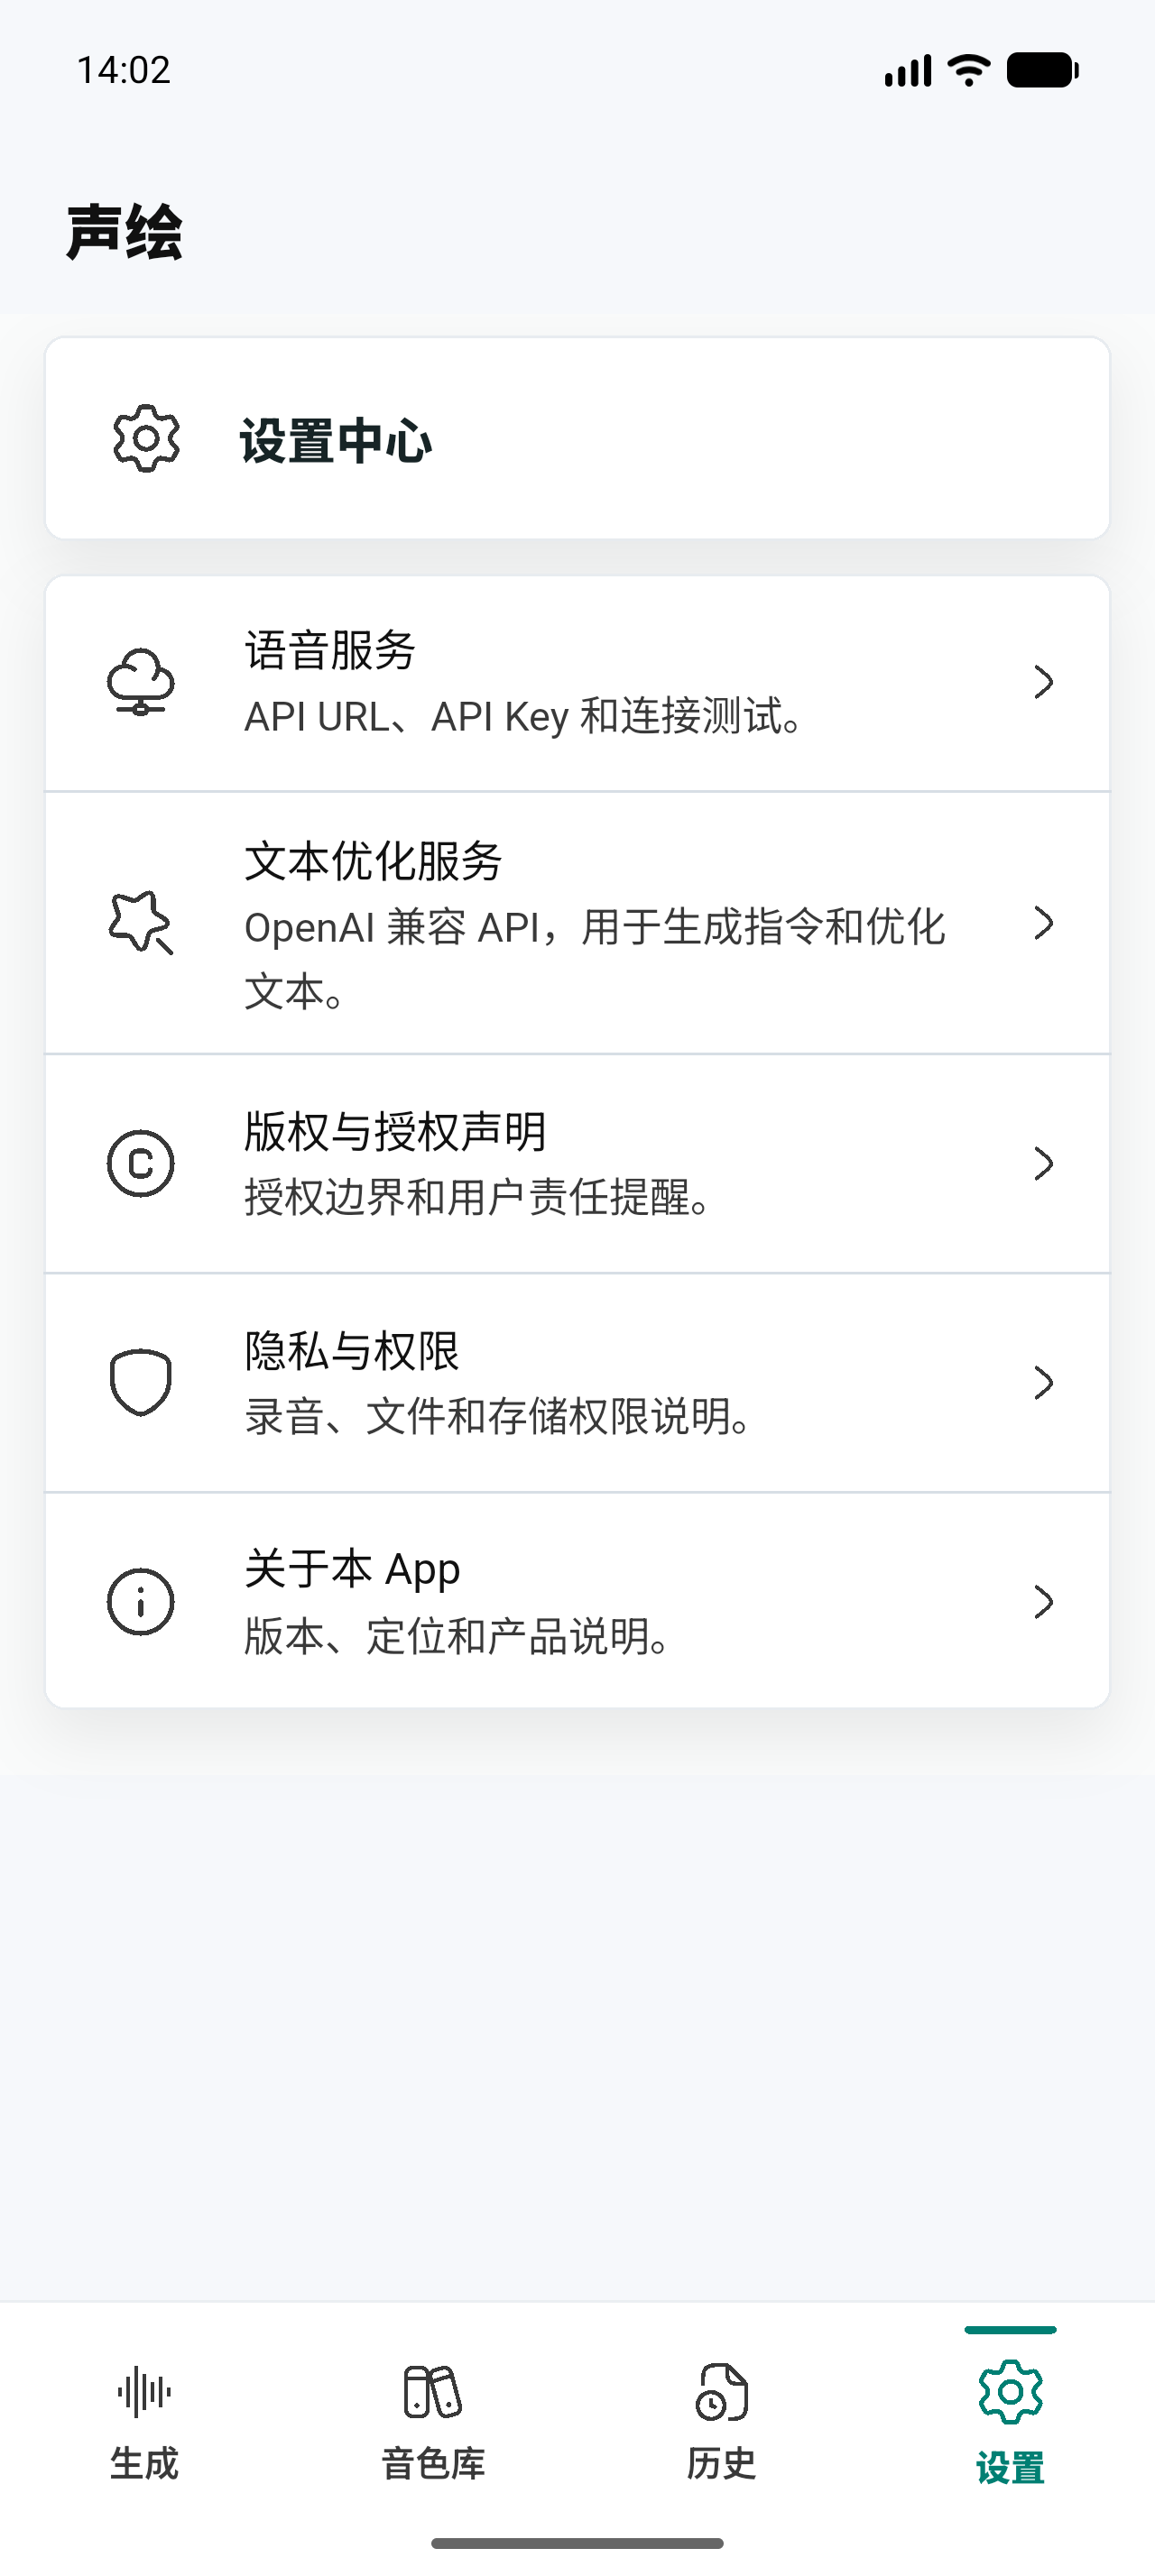
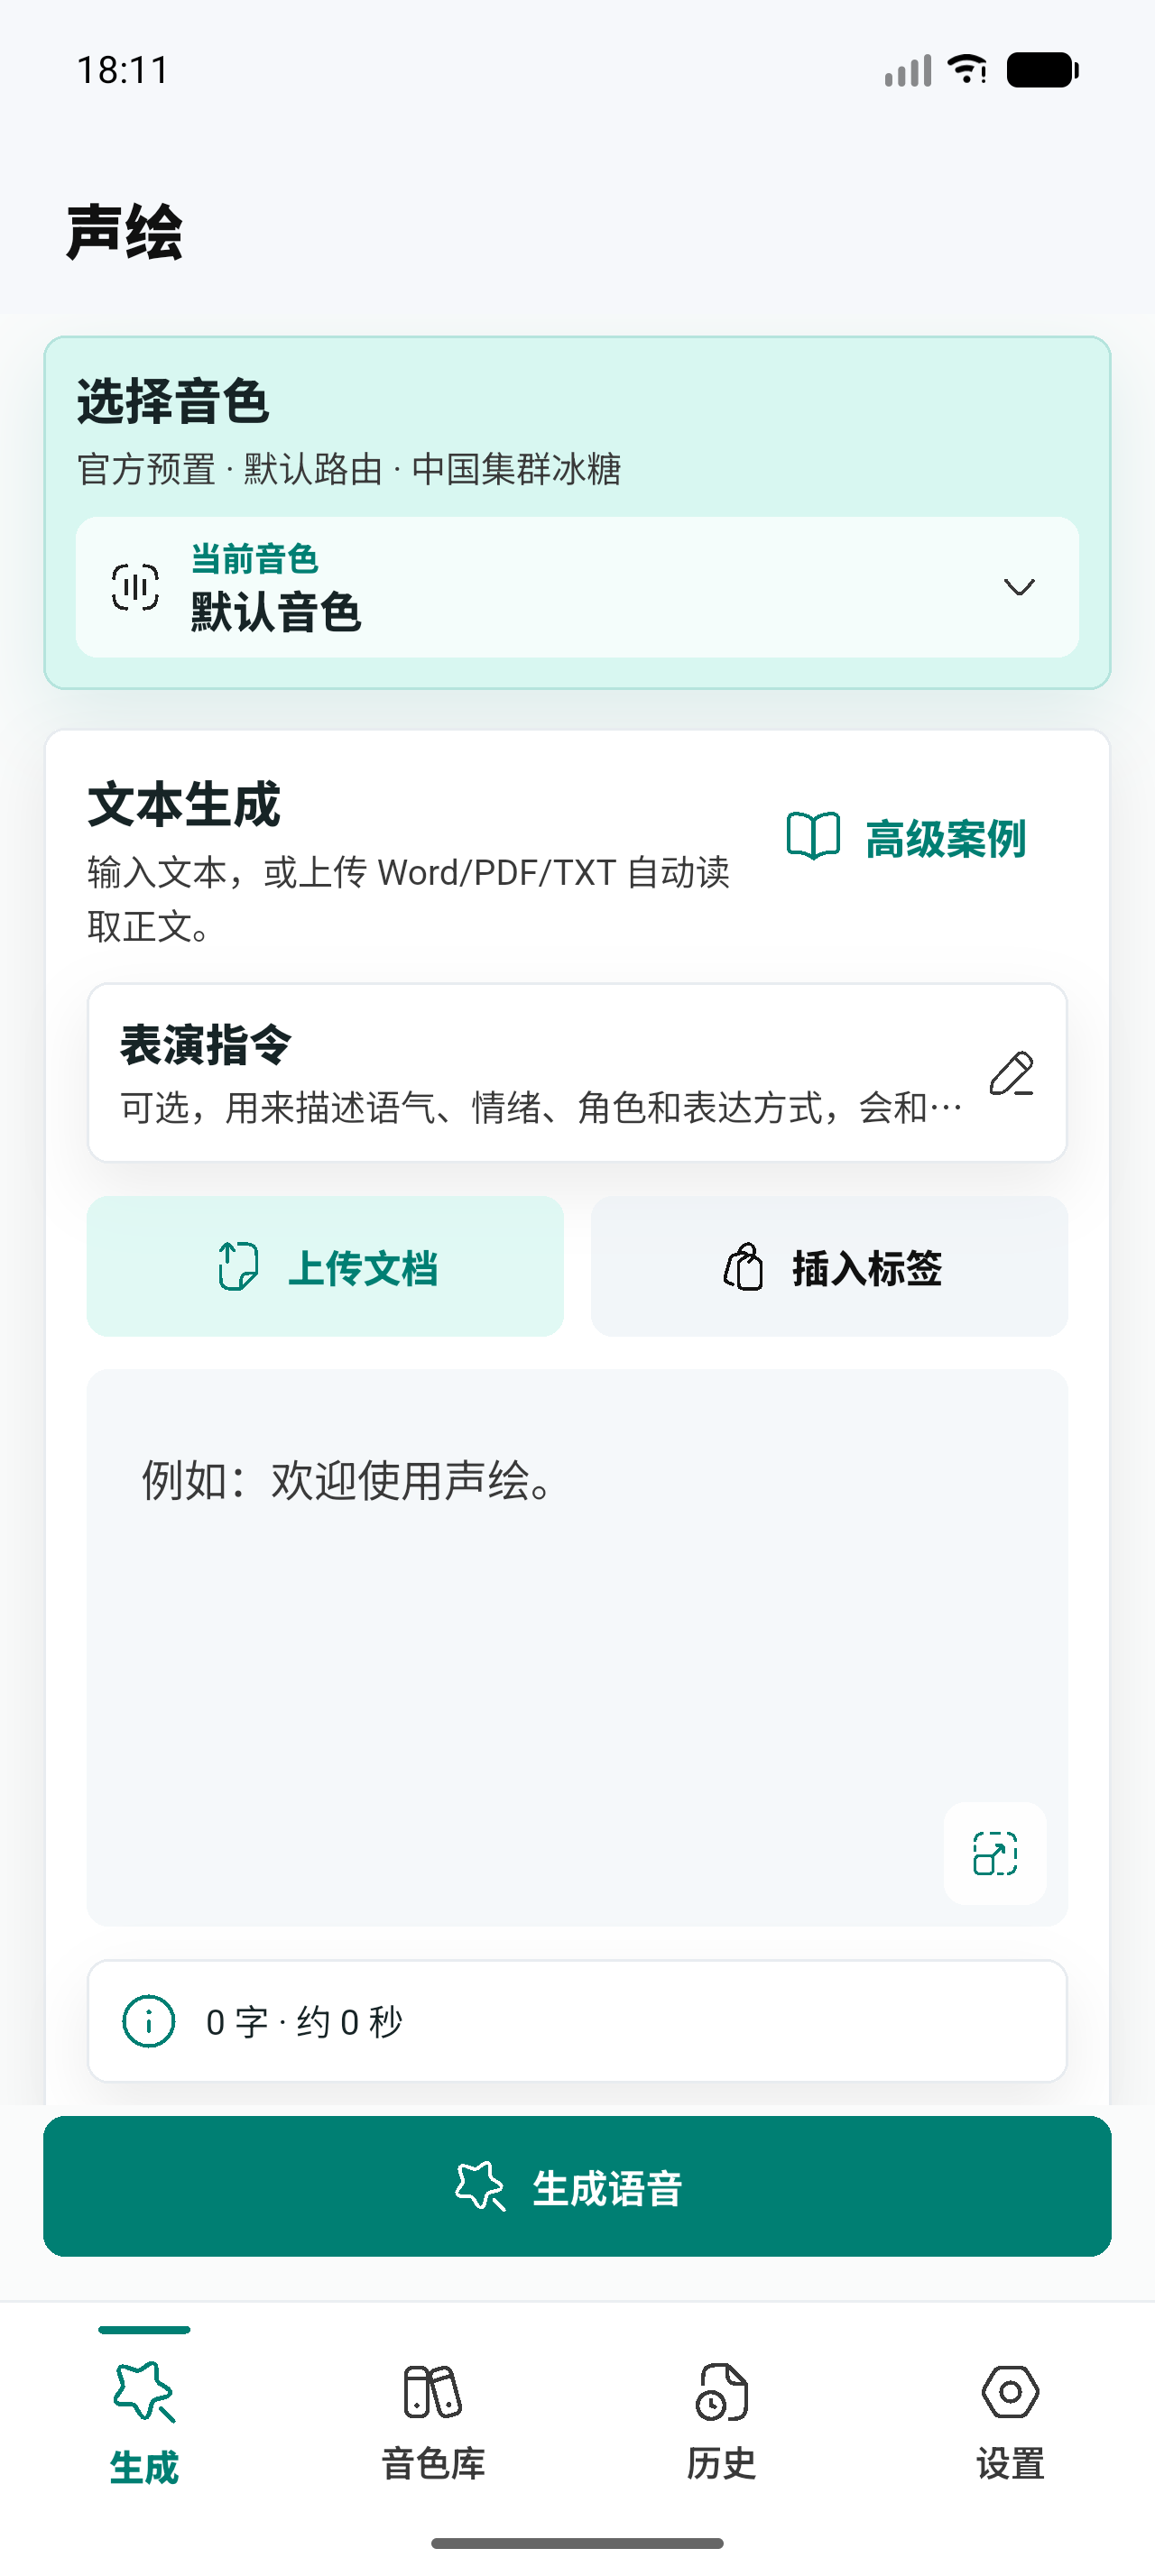
Update license and generate screenshot

diff --git a/README.md b/README.md
@@ -19,7 +19,7 @@
 </p>
 
 <p align="center">
-  <a href="LICENSE"><img src="https://img.shields.io/badge/License-MIT-20A67A.svg" alt="MIT License"></a>
+  <a href="LICENSE"><img src="https://img.shields.io/badge/License-Apache--2.0-20A67A.svg" alt="Apache-2.0 License"></a>
   <img src="https://img.shields.io/badge/Flutter-Android%20first-3B82F6?logo=flutter" alt="Flutter Android first">
   <img src="https://img.shields.io/badge/AI%20Voice-TTS%20%2F%20Voice%20Clone-8B5CF6" alt="AI Voice">
 </p>
@@ -178,7 +178,7 @@ test/                   单元测试和 Widget 测试
 
 ## 开源协议
 
-本项目使用 MIT License。详见 [LICENSE](LICENSE)。
+本项目使用 Apache License 2.0。详见 [LICENSE](LICENSE)。
 
 ## Topics
 